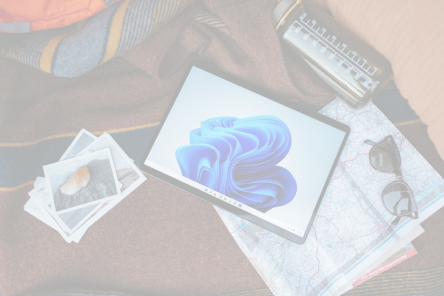
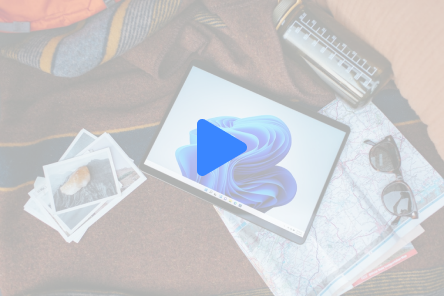
hard speach

Changed region(s): [[0.4392, 0.3953, 0.5563, 0.6081]]

diff --git a/lesson3/hw3/landing_page.html b/lesson3/hw3/landing_page.html
@@ -27,19 +27,129 @@
 
     
     <div class="first_block">
-        <div>
+        <div class="clearfix">
+            <img src="img/iPhone13.png" alt="iPhone 13">
             <h1>Write your Landing Title</h1>
             <p>Lorem ipsum dolor sit amet consectetur adipisicing elit. Consequatur, architecto!</p>
             <button class="blue_button">Authors</button>
-            <button class="gray_button">Check demo</button>
+            <button class="gray_button">Check demo</button>  
         </div>
+    </div>
+    
+    <div class="authors_block">
+        <section class="authors_head">
+            <h2>Authors</h2>
+            <p>Amet minim mollit non deserunt ullamco est sit aliqua dolor do amet sint. Velit officia consequat duis enim velit mollit. </p>
+        </section>
+        
+        <div class="table">
+            <div class="table_row">
+
+                <div class="table_cell">
+                    <img src="img/mark_headers.png" alt="Photo of Mark Headers">
+                </div>
+                
+                <div class="table_cell">
+                    <h3>Mark Headers</h3>
+                    <h4>Graphic designer</h4>
+                    <p>Amet minim mollit non deserunt ullamco est sit aliqua dolor do amet sint. 
+                        Velit officia consequat duis enim velit mollit. Exercitation veniam consequat sunt 
+                        nostrud amet.</p>
+                    <table>
+                        <tr>
+                            <td><a href=""><img src="img/Vector_in.png" alt="what?"></a></td>
+                            <td><a href=""><img src="img/Vector_inst.png" alt="instagram"></a></td>
+                            <td><a href=""><img src="img/Vector_f.png" alt="facebook"></a></td>
+                        </tr>
+                    </table>
+                </div>
+                <div class="table_cell last_cell">
+                    <div><h4>Gregory Paragraph</h4>Programmer</div>
+                    <div class="before_arrow"><h3>Mark Header</h3>Graphic designer</div>
+                    <div><h4>Henry Action</h4>Analyst</div>
+                </div>
+                
+            </div>
+        </div>
+    </div>
+
+    <div class="blue_block">
+        <div class="block_in_blue">
+            <div>
+                <h2>For who</h2>
+                <p>Amet minim mollit non deserunt ullamco est sit aliqua dolor do amet sint. Velit officia consequat duis enim velit mollit. </p>
+            </div>
+
+            <section class="blue_section">
+                <div class="clearfix">
+                    <img src="img/img_for_students.png" alt="for students">
+                    <h3>For students</h3>
+                    <p>Amet minim mollit non deserunt ullamco est sit aliqua dolor do amet sint. 
+                        Velit officia consequat duis enim velit mollit. </p>
+                </div>
+                <div class="clearfix">
+                    <img src="img/img_for_freelaners.png" alt="for freelaners">
+                    <h3>For freelaners</h3>
+                    <p>Amet minim mollit non deserunt ullamco est sit aliqua dolor do amet sint. 
+                        Velit officia consequat duis enim velit mollit. </p>
+                </div>
+                <div class="clearfix">
+                    <img src="img/img_for_agency.png" alt="for agency">
+                    <h3>For agency</h3>
+                    <p>Amet minim mollit non deserunt ullamco est sit aliqua dolor do amet sint. 
+                        Velit officia consequat duis enim velit mollit. </p>
+                </div>
+                <div class="clearfix">
+                    <img src="img/img_for_marketers.png" alt="for marketers">
+                    <h3>For marketers</h3>
+                    <p>Amet minim mollit non deserunt ullamco est sit aliqua dolor do amet sint. 
+                        Velit officia consequat duis enim velit mollit. </p>
+                </div>
+            </section>
+            <div>
+                <button class="gray_button">I want it!</button>
+            </div>
+                
+        </div>        
+    </div>
+
+
+    <section class="container">
         <div>
-            <img src="img/iPhone13.png" alt="iPhone 13">
+            <h2>Check demo</h2>
+            <p>Amet minim mollit non deserunt ullamco est sit aliqua dolor do amet sint. Velit officia consequat duis enim velit mollit. </p>
         </div>
-    </div>
-    <div>
-        <h2>Authors</h2>
-        <p>Lorem ipsum dolor sit amet consectetur adipisicing.</p>
-    </div>
+        <div class="clearfix video_block">
+            <img src="img/video_screen.png" alt="video">
+            <div>
+                <h4>Watch video</h4>
+                <p>Amet minim mollit non deserunt ullamco est sit aliqua dolor do amet sint. Velit officia consequat duis enim velit mollit. </p>
+                <h4>Configure sandbox</h4>
+                <p>Amet minim mollit non deserunt ullamco est sit aliqua dolor do amet sint. Velit officia consequat duis enim velit mollit. </p>
+                <h4>Read documentation</h4>
+                <p>Amet minim mollit non deserunt ullamco est sit aliqua dolor do amet sint. Velit officia consequat duis enim velit mollit. </p>
+            </div>
+        </div>
+    </section>
+
+    <section class="opinions_container">
+        <div class="opinions_block">
+            <div>
+                <h2>Opinions</h2>
+                <p>Amet minim mollit non deserunt ullamco est sit aliqua dolor do amet sint. Velit officia consequat duis enim velit mollit. </p>
+            </div>
+            <div class="rewiew_block">
+                <div class="">
+                    <div class="rewiew_text">
+                        <h3>Jones David</h3>
+                        <h4>CEO Jones Inc</h4>
+                        <p>Amet minim mollit non deserunt ullamco est sit aliqua dolor do amet sint. Velit officia consequat duis enim velit mollit. </p>
+                    </div>
+                </div>
+                <div></div>
+                <div></div>
+            </div>
+        </div>
+    </section>
 </body>
 </html>

diff --git a/lesson3/hw3/style.css b/lesson3/hw3/style.css
@@ -9,7 +9,7 @@ body{
     background: white;
 }
 header{
-    width: 100%;
+    width: 80%;
     height: 96px;
     margin: 0 auto;
 }
@@ -21,17 +21,22 @@ h1{
     font-weight: 700;
     margin: 0;
 }
+h3{
+    font-weight: 600;
+    font-size: 27px;
+}
 h4{
     font-weight: 500;
+    font-size: 21px;
 }
 
 header>div.logotype{
     float: left;
     font-weight: 600;
     font-size: 27px;
-    position: relative;
+    /* position: relative;
     top: 16px;
-    left: 12px;
+    left: 12px; */
 }
 header>div.nav-block{
     float: right;
@@ -59,16 +64,13 @@ p{
 .blue_button{
     color: blue;
     border: 1px solid blue;
-    /* line-height: 28px; */
     padding: 10px 16px;
     background: white;
 }
 .blue_button:hover{
     background: #0062FF;
     color: white;
-    border: 0;
 }
-
 .gray_button{
     color: #575757;
     border: 1px solid #575757;
@@ -78,25 +80,135 @@ p{
 .gray_button:hover{
     color: white;
     background: gray;
-    border: 0;
 }
 
 
 div.first_block{
-    padding: 100px 0;
     margin: 0 auto;
-    width: 90%;
+    width: 1000px;
+    padding: 75px 0;
 }
-div.first_block div:first-child{
-    float: left;
-    width: 420px;
-    margin-right: 70px;
-    padding: 120px 0;
+div.first_block h1{
+    padding-top: 150px;
 }
 div.first_block button.blue_button{
     margin-right: 20px;
 }
-div.first_block div:last-child{
-    float: left;
+div.first_block img{
+    float: right;
+    padding-left: 70px;
+}
 
+.clearfix::after {
+    content: "";
+    clear: both;
+    display: table;
+  }
+
+
+.authors_block{
+    margin: 0 auto;
+    width: 1200px;
+    padding-bottom: 60px;
+}  
+section.authors_head{
+    text-align: center;
+}
+td img{
+    padding-right: 15px;
+    height: 20px;
+}
+div.table{
+    display: table;
+    width: 100%;
+}
+div.table>div.table_row div:first-child{
+    width: 150px;
+    padding-right: 40px;
+}
+div.table>div.table_row div:nth-child(2){
+    /* width: 40%; */
+}
+div.table>div.table_row div:last-child{
+    padding-left: 50px;
+    width: 30%;
+}
+.table_row{
+    display: table-row;
+}
+.table_cell{
+    display: table-cell;
+    vertical-align: top;
+}
+
+div.last_cell{
+    color: rgba(255, 190, 11, 1);
+}
+div.before_arrow{
+    color: initial;
+}
+div.before_arrow::before{
+    content: "<";
+    font-size: 30px;
+    float: left;
+}
+
+.blue_block{
+    background: rgba(0, 98, 255, 1);
+    color: white;
+    text-align: center;
+}
+.block_in_blue{
+    max-width: 1200px;
+    width: 0 auto;
+}
+.blue_block div:only-child{
+    padding: 60px 0;
+}
+.blue_section{
+    margin: 0 auto;
+    width: 90%;
+    /* position: relative; */
+    padding: 40px 0;
+}
+section.blue_section div{
+    float: left;
+    width: 50%;
+    text-align: left;
+}
+.blue_section img{
+    float: left;
+    padding: 0px 30px 30px 0px;
+}
+
+
+
+.container{
+    width: 90%;
+    margin: 0 auto;
+    text-align: center;
+    padding: 50px 0;
+}
+.video_block img{
+    display: inline-block;
+    
+}
+
+
+.opinions_container{
+    background: rgba(255, 190, 11, 1);
+    text-align: center;
+}
+.opinions_block{
+    padding: 50px 0;
+}
+
+.rewiew_block{
+    height: 230px;
+    text-align: left;
+}
+
+.rewiew_text::before{
+    content: url(img/cloud.png);
+    float: left;
 }
